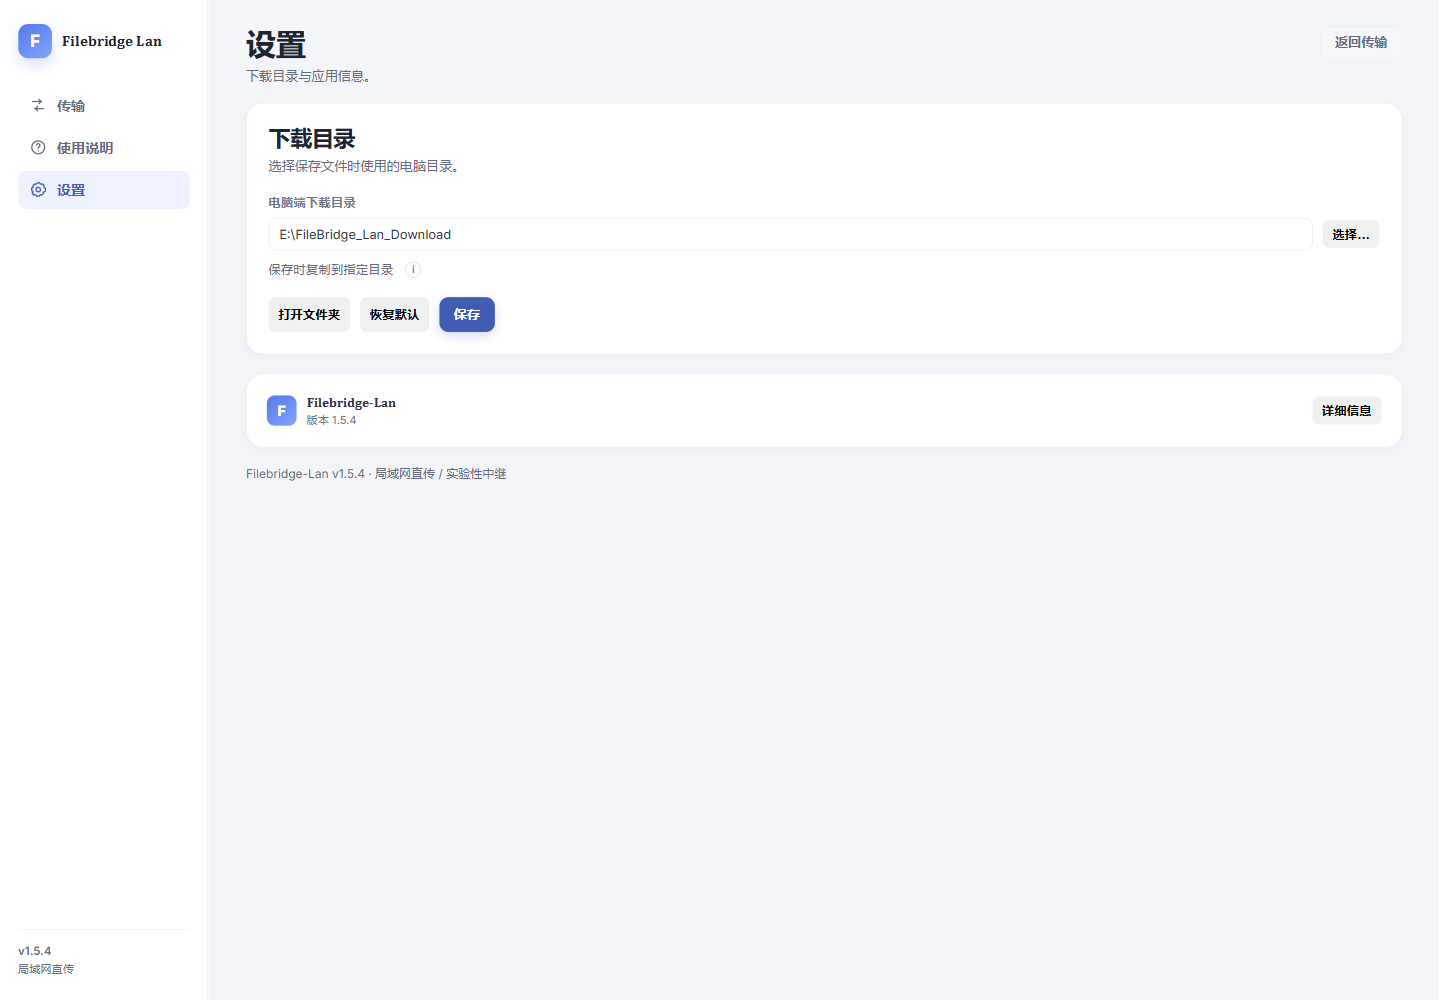
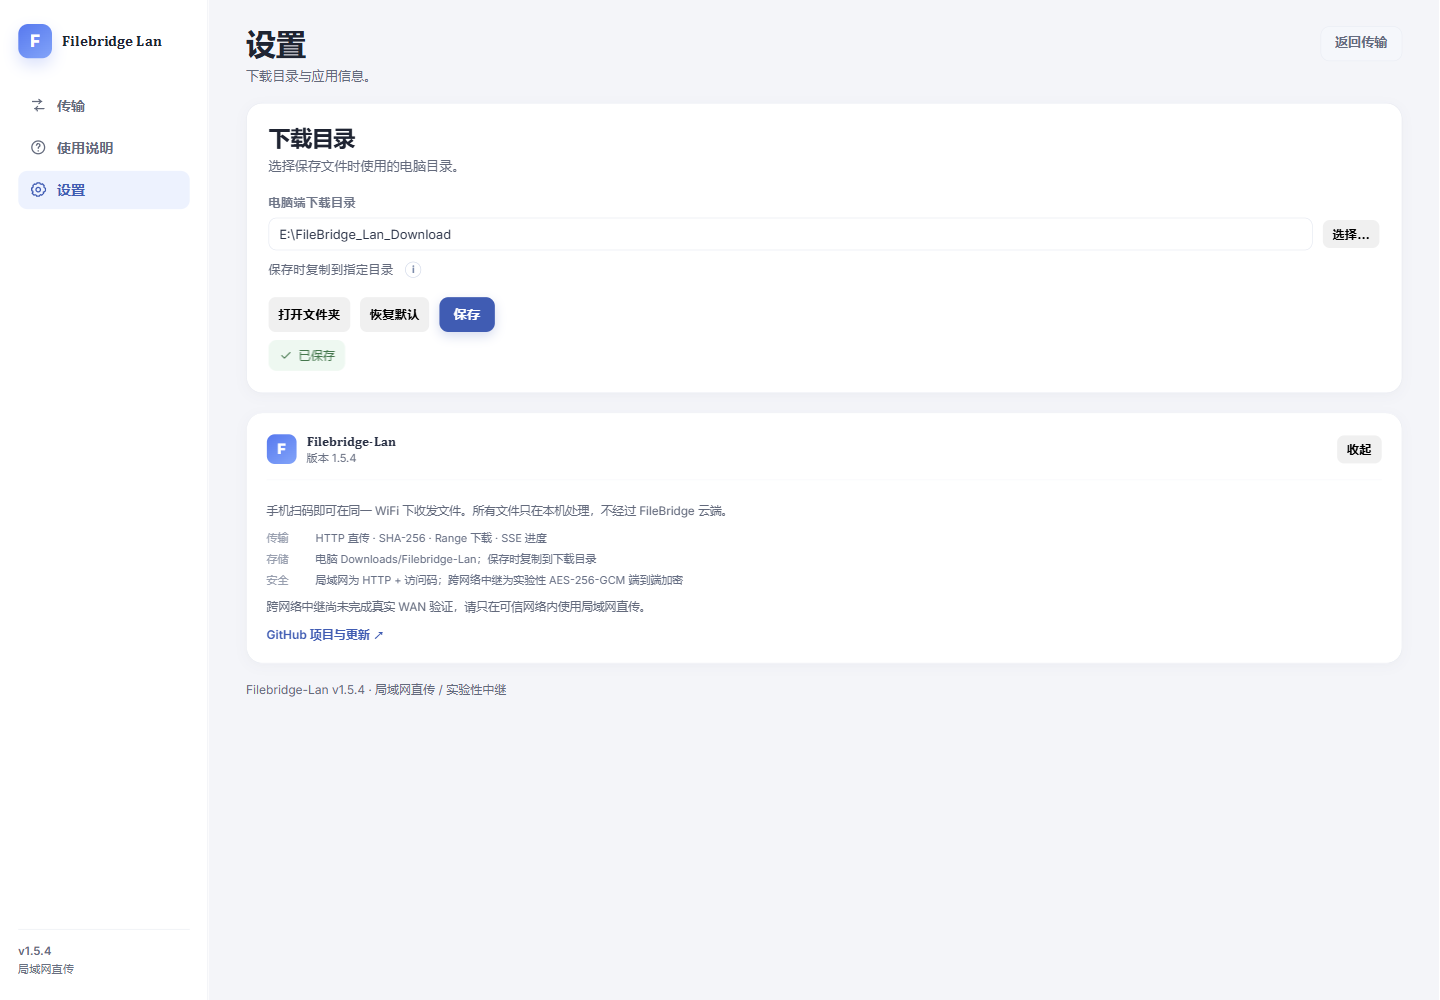
style: animate settings state changes

diff --git a/src/dashboard.css b/src/dashboard.css
@@ -2867,3 +2867,54 @@ input {
     gap: 16px;
   }
 }
+/* Settings motion: workspace continuity, disclosure, and save acknowledgement. */
+@keyframes settings-page-in {
+  from { opacity: 0; transform: translateY(4px); }
+  to { opacity: 1; transform: translateY(0); }
+}
+
+.settings-page {
+  animation: settings-page-in 220ms cubic-bezier(0.16, 1, 0.3, 1) both;
+}
+
+@keyframes settings-detail-in {
+  from { opacity: 0; transform: translateY(-3px); }
+  to { opacity: 1; transform: translateY(0); }
+}
+
+.about-details {
+  transform-origin: top;
+  animation: settings-detail-in 190ms cubic-bezier(0.16, 1, 0.3, 1) both;
+}
+
+@keyframes settings-message-in {
+  from { opacity: 0; transform: translateY(4px) scale(0.99); }
+  to { opacity: 1; transform: translateY(0) scale(1); }
+}
+
+.modal-message {
+  display: inline-flex;
+  align-items: center;
+  gap: 6px;
+  padding: 7px 10px;
+  border-radius: 8px;
+  animation: settings-message-in 180ms cubic-bezier(0.16, 1, 0.3, 1) both;
+}
+
+.modal-message.success {
+  background: var(--ok-soft);
+  color: #0b7a49;
+}
+
+.modal-message.error {
+  background: var(--danger-soft);
+  color: var(--danger);
+}
+
+@media (prefers-reduced-motion: reduce) {
+  .settings-page,
+  .about-details,
+  .modal-message {
+    animation: none;
+  }
+}

diff --git a/src/components/SettingsPanel.tsx b/src/components/SettingsPanel.tsx
@@ -2,6 +2,7 @@ import { useEffect, useState } from 'react';
 import { invoke } from '@tauri-apps/api/core';
 import { isTauriHost } from '../lib/hub';
 import { InfoTip } from './InfoTip';
+import { Icon } from './Icon';
 
 interface SettingsPanelProps {
   onClose: () => void;
@@ -159,8 +160,16 @@ export function SettingsPanel({ onClose }: SettingsPanelProps) {
           </>
         )}
 
-        {message && <p className="modal-message success">{message}</p>}
-        {error && <p className="modal-message error">{error}</p>}
+        {message && (
+          <p className="modal-message success" role="status">
+            <Icon name="check" size={14} /> {message}
+          </p>
+        )}
+        {error && (
+          <p className="modal-message error" role="alert">
+            <Icon name="alert" size={14} /> {error}
+          </p>
+        )}
       </article>
 
       <article className="card about-card settings-about">
